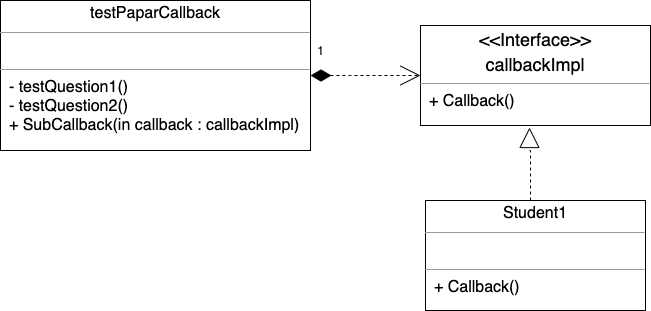
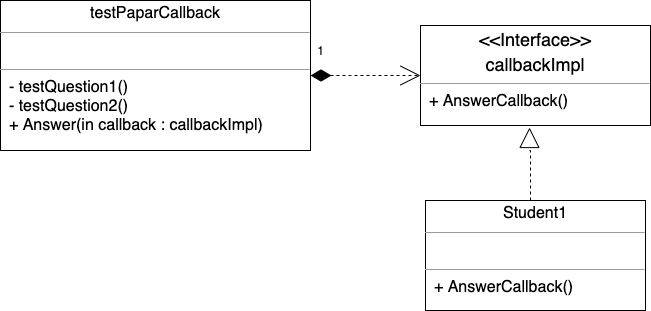
模板方法模式

Changed region(s): [[0.0307, 0.3762, 0.4608, 0.4341], [0.6759, 0.8971, 0.8909, 0.955], [0.6759, 0.2894, 0.8909, 0.3473]]

diff --git a/模板模式/callback.go b/模板模式/callback.go
@@ -13,25 +13,25 @@ func (t *testPaperCallback) testQuestion2() {
 	fmt.Println("问题2：中国有多大")
 }
 
-func (t *testPaperCallback) SubCallback(callback CallbackImpl) {
+func (t *testPaperCallback) Answer(callback CallbackImpl) {
 	t.testQuestion1()
 	t.testQuestion2()
-	callback.Callback()
+	callback.AnswerCallback()
 }
 
 type CallbackImpl interface {
-	Callback()
+	AnswerCallback()
 }
 
 type student3 struct {
 	*testPaperCallback
 }
 
-func (s *student3) Callback() {
+func (s *student3) AnswerCallback() {
 	fmt.Println("答案1：56")
 	fmt.Println("答案2：测试")
 }
 
 func doPaperCallback(student *student3) {
-	student.SubCallback(&student3{})
+	student.Answer(&student3{})
 }

diff --git a/模板模式/README.md b/模板模式/README.md
@@ -150,7 +150,7 @@ func TestTestPaper(t *testing.T) {
 
 相对于普通的函数调用来说，回调是一种双向调用关系。A类事先注册某个函数F到B类，A类在调用B类的P函数的时候，B类反过来调用A类注册给它的F函数。这里的F函数就是“回调函数”。A调用B，B反过来又调用A，这种调用机制就叫作“回调”  
 
-回到分为两种：  
+回调分为两种：  
 
 1、同步回调  
 
@@ -162,7 +162,7 @@ func TestTestPaper(t *testing.T) {
 
 如果做过支付的同学肯定很熟悉这个，例如微信支付，我们调用微信支付进行付款，成功之后我们的服务器会收到微信端支付的消息回调，然后进行支付成功之后的后续操作。  
 
-上面的例子使用回调实现  
+上面的考试例子使用回调实现  
 
 ```go
 type testPaperCallback struct {
@@ -176,27 +176,27 @@ func (t *testPaperCallback) testQuestion2() {
 	fmt.Println("问题2：中国有多大")
 }
 
-func (t *testPaperCallback) SubCallback(callback CallbackImpl) {
+func (t *testPaperCallback) Answer(callback CallbackImpl) {
 	t.testQuestion1()
 	t.testQuestion2()
-	callback.Callback()
+	callback.AnswerCallback()
 }
 
 type CallbackImpl interface {
-	Callback()
+	AnswerCallback()
 }
 
 type student3 struct {
 	*testPaperCallback
 }
 
-func (s *student3) Callback() {
+func (s *student3) AnswerCallback() {
 	fmt.Println("答案1：56")
 	fmt.Println("答案2：测试")
 }
 
 func doPaperCallback(student *student3) {
-	student.SubCallback(&student3{})
+	student.Answer(&student3{})
 }
 ```
 
@@ -219,3 +219,4 @@ func doPaperCallback(student *student3) {
 【文中代码】https://github.com/boilingfrog/design-pattern-learning/tree/master/模板模式   
 【大话设计模式】https://book.douban.com/subject/2334288/  
 【极客时间】https://time.geekbang.org/column/intro/100039001    
+【模板模式】https://boilingfrog.github.io/2021/11/20/%E4%BD%BF%E7%94%A8go%E5%AE%9E%E7%8E%B0%E6%A8%A1%E6%9D%BF%E6%A8%A1%E5%BC%8F/  
